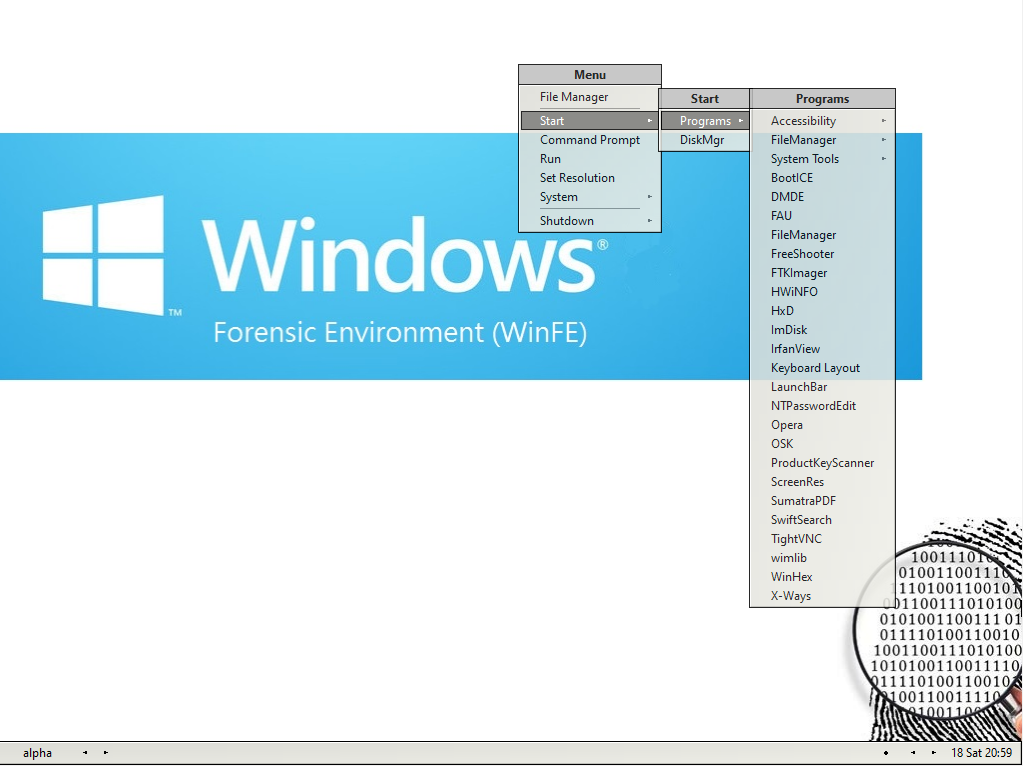
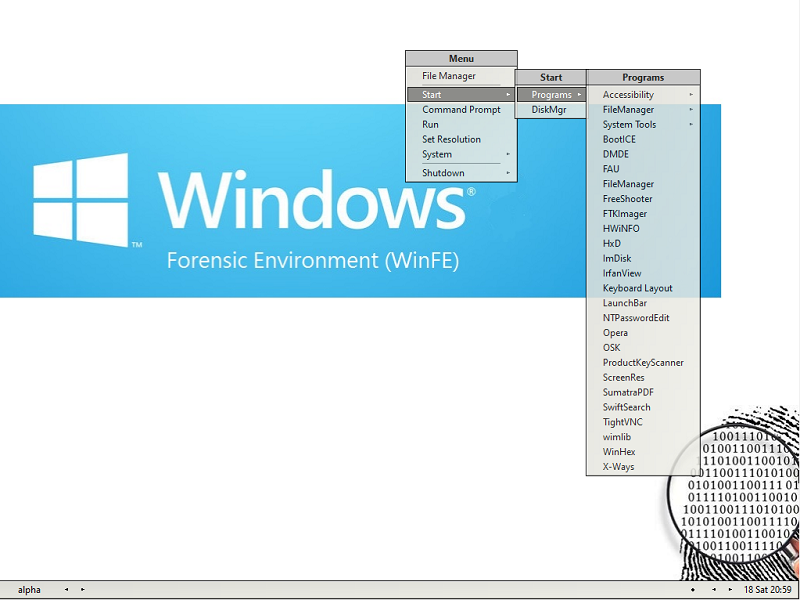
20220619

Changed region(s): [[0.0, 0.69, 1.0, 1.0], [0.5, 0.09, 0.875, 0.81]]

diff --git a/readme.files/links.htm b/readme.files/links.htm
@@ -42,7 +42,6 @@
  
 
 
-
 <h2><u>Download/Links</u></h2>
 
 
@@ -84,4 +83,141 @@ Detail when selecting the <font class="file">Code</font> button. Click on <font 
 
 
 
-<p class="breaktop"><font class="file">Document date - 18<sup>th</sup> June 2022</font></p></font></body></html> 
+
+
+
+<p class="breaktop">
+<h2><u>Differences between Main and WinPE</u></h2>
+
+
+<p>
+The <a class="external" target="_blank" href="https://github.com/MistyFromReboot/Mini-WinFE/tree/WinPE">WinPE</a> branch has some additions to the <a class="external" target="_blank" href="https://github.com/MistyFromReboot/Mini-WinFE/tree/main">main</a> branch. The following project scripts are included in <a class="external" target="_blank" href="https://github.com/MistyFromReboot/Mini-WinFE/tree/WinPE">WinPE</a> -
+<ul>
+<li><font color="red">Project\WinFE\Applications\</font><font color="blue">Diskmgmt.script</font></li>
+<li><font color="red">Project\WinFE\Applications\</font><font color="blue">JkDefrag.script</font></li>
+<li><font color="red">Project\WinFE\Applications\</font><font color="blue">sDelete.script</font></li>
+<li><font color="red">Project\WinFE\Applications\</font><font color="blue">Snapshot.script</font></li>
+<li><font color="red">Project\WinFE\Applications\</font><font color="blue">Tinyhexer.script</font></li>
+<li><font color="red">Project\WinFE\Finalise</font><font color="blue">Subst.script</font></li>
+</ul>
+</p>
+
+
+<p class="break3em">
+The following folders are included in the <a class="external" target="_blank" href="https://github.com/MistyFromReboot/Mini-WinFE/tree/WinPE">WinPE</a> branch program cache (<font color="red">Projects\Cache\Programs\</font>) - 
+<ul>
+<li><font color="red">\Bootsect</font></li>
+<li><font color="red">\Diskmgmt</font></li>
+<li><font color="red">\JKDefrag</font></li>
+<li><font color="red">\sDelete</font></li>
+<li><font color="red">\Tinyhexer</font></li>
+</ul>
+</p>
+
+
+<p class="break3em">
+Differences in  <font color="red">Project\WinFE\Finalise\</font><font color="blue">winfe.script</font>, which effectively force the use of forensic settings in the <a class="external" target="_blank" href="https://github.com/MistyFromReboot/Mini-WinFE/tree/main">main</a> branch as <font class="file">SANPolicy</font> can only be set as 3 or 4, <font class="file">NoAutoMount</font> cannot be disabled and <font class="file">DiskMgr/Protect.exe</font> running at startup cannot be disabled - 
+</p>
+
+<p>
+<u><a class="external" target="_blank" href="https://github.com/MistyFromReboot/Mini-WinFE/tree/WinPE">WinPE</a> branch</u> (lines 24-32)<br/>
+<ul><font size="1">
+24 pScrollBox3=<b><font color="red">1</font></b>,1,4,20,140,80,20,<b><font color="red">1,3,4</font></b><br/>
+25 pTextLabel3="2] SAN Policy",1,1,213,140,90,18,8,Bold<br/>
+26 pButton3=HELP,1,8,430,140,70,20,HELP.3,0,True,_HELP.3_,True<br/>
+27 pBevel4=,1,12,10,190,500,40<br/>
+28 pScrollBox4<b><font color="red">=,</font></b>1,4,20,200,80,20,<b><font color="red">,ENABLED</font></b><br/>
+29 pTextLabel4="3] NoAutoMount",1,1,205,200,117,21,8,Bold<br/>
+30 pButton4=HELP,1,8,430,200,70,20,HELP.4,0,True,_HELP.4_,True<br/>
+31 pBevel5=,1,12,10,250,500,40<br/>
+32 pScrollBox5=<b><font color="red">NO</font></b>,1,4,20,260,80,20,<b><font color="red">YES,NO</font></b><br/>
+</font></ul>
+</p>
+
+
+
+<p>
+<u><a class="external" target="_blank" href="https://github.com/MistyFromReboot/Mini-WinFE/tree/main">main</a> branch</u> (lines 24-32)<br/>
+<ul><font size="1">
+24 pScrollBox3=<b><font color="red">3</font></b>,1,4,20,140,80,20,<b><font color="red">3,4</font></b><br/>
+25 pTextLabel3="2] SAN Policy",1,1,213,140,90,18,8,Bold<br/>
+26 pButton3=HELP,1,8,430,140,70,20,HELP.3,0,True,_HELP.3_,True<br/>
+27 pBevel4=,1,12,10,190,500,40<br/>
+28 pScrollBox4<b><font color="red">=ENABLED,</font></b>1,4,20,200,80,20,<b><font color="red">ENABLED</font></b><br/>
+29 pTextLabel4="3] NoAutoMount",1,1,205,200,117,21,8,Bold<br/>
+30 pButton4=HELP,1,8,430,200,70,20,HELP.4,0,True,_HELP.4_,True<br/>
+31 pBevel5=,1,12,10,250,500,40<br/>
+32 pScrollBox5=<b><font color="red">YES</font></b>,1,4,20,260,80,20,<b><font color="red">YES</font></b><br/>
+</font></ul>
+</p>
+
+
+
+
+
+
+
+
+
+<p class="break3em">
+Differences in  <font color="red">Project\WinFE\Settings\</font><font color="blue">Recommended.script</font>, which removes BootSect from the <a class="external" target="_blank" href="https://github.com/MistyFromReboot/Mini-WinFE/tree/main">main</a> branch -
+</p>
+
+<p>
+<u><a class="external" target="_blank" href="https://github.com/MistyFromReboot/Mini-WinFE/tree/WinPE">WinPE</a> branch</u> (lines 16-20)<br/>
+<ul><font size="1">
+16 <font color="red">pCheckBox1="1] BootSect",1,3,40,80,180,18,True</font><br/>
+17 pCheckBox2="2] CMD Here",1,3,40,110,180,18,True<br/>
+18 pCheckBox3="3] Keyboard Layout",1,3,40,140,180,18,True<br/>
+19 pCheckBox4="4] ScreenRes",1,3,40,170,180,18,True<br/>
+20 <font color="red">pButton1=?,1,8,10,80,18,18,?option1,0,True,_?option1_,True</font><br/>
+</font></ul>
+</p>
+
+
+<p>
+<u><a class="external" target="_blank" href="https://github.com/MistyFromReboot/Mini-WinFE/tree/main">main</a> branch</u> (lines 16-20)</br>
+<ul><font size="1">
+16 <font color="red">//</font><br/>
+17 pCheckBox2="2] CMD Here",1,3,40,110,180,18,True<br/>
+18 pCheckBox3="3] Keyboard Layout",1,3,40,140,180,18,True<br/>
+19 pCheckBox4="4] ScreenRes",1,3,40,170,180,18,True<br/>
+20 <font color="red">//</font><br/>
+</font></ul>
+</p>
+
+
+
+
+
+<p class="break3em">
+Differences in  <font color="red">Project\WinFE\Settings\</font><font color="blue">wallpaper.script</font>, which changes the default wallpaper - 
+</p>
+
+
+<p>
+<u><a class="external" target="_blank" href="https://github.com/MistyFromReboot/Mini-WinFE/tree/WinPE">WinPE</a> branch</u> (lines 25-27)
+<ul><font size="1">
+25 Filecopy,"%Cache%\Programs\Wallpaper\<b><font color="red">winpe.jpg</font></b>","%TargetDir%\Programs\WinXShell\wallpaper.jpg"<br/>
+26 End<br/>
+27 Else,Filecopy,"%Cache%\Programs\Wallpaper\<b><font color="red">winpe.jpg</font></b>","%Target_System32%\winpe.jpg"<br/>
+</font></ul>
+</p>
+
+
+<p>
+<u><a class="external" target="_blank" href="https://github.com/MistyFromReboot/Mini-WinFE/tree/main">main</a> branch</u> (lines 16-20)</br>
+<ul><font size="1">
+25 Filecopy,"%Cache%\Programs\Wallpaper\<b><font color="red">winfe.jpg</font></b>","%TargetDir%\Programs\WinXShell\wallpaper.jpg"<br/>
+26 End<br/>
+27 Else,Filecopy,"%Cache%\Programs\Wallpaper\<b><font color="red">winfe.jpg</font></b>","%Target_System32%\winpe.jpg"<br/>
+</font></ul>
+</p>
+
+
+
+
+
+
+
+<p class="breaktop"><font class="file">Document date - 19<sup>th</sup> June 2022</font></p></font></body></html> 

diff --git a/README.md b/README.md
@@ -33,4 +33,6 @@ WinBuilder and PEBakery version 0.9.5.1 beta5 are included in the download - ple
 
 The Mini-WinFE project has also been tested using PEBakery version 1.0.0 (Standalone (x64): PEBakery-v1.0.0-sc_x64.7z). 
 
-![Alt text](/Projects/Cache/mini-winfe.png?raw=true "Mini-WinFE")
+![Alt text](/Projects/Cache/mini-winfe.png?raw=true "BBLean shell")
+
+![Alt text](/Projects/Cache/launchbar.png?raw=true "LaunchBar shell")
